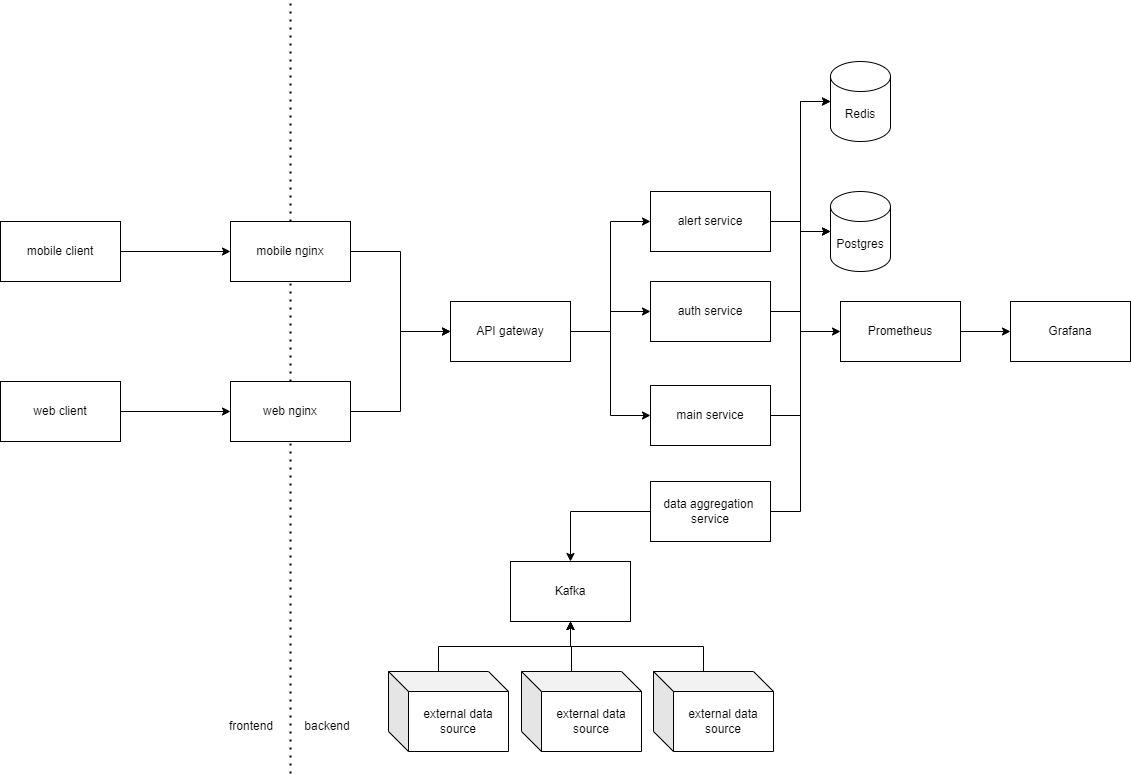
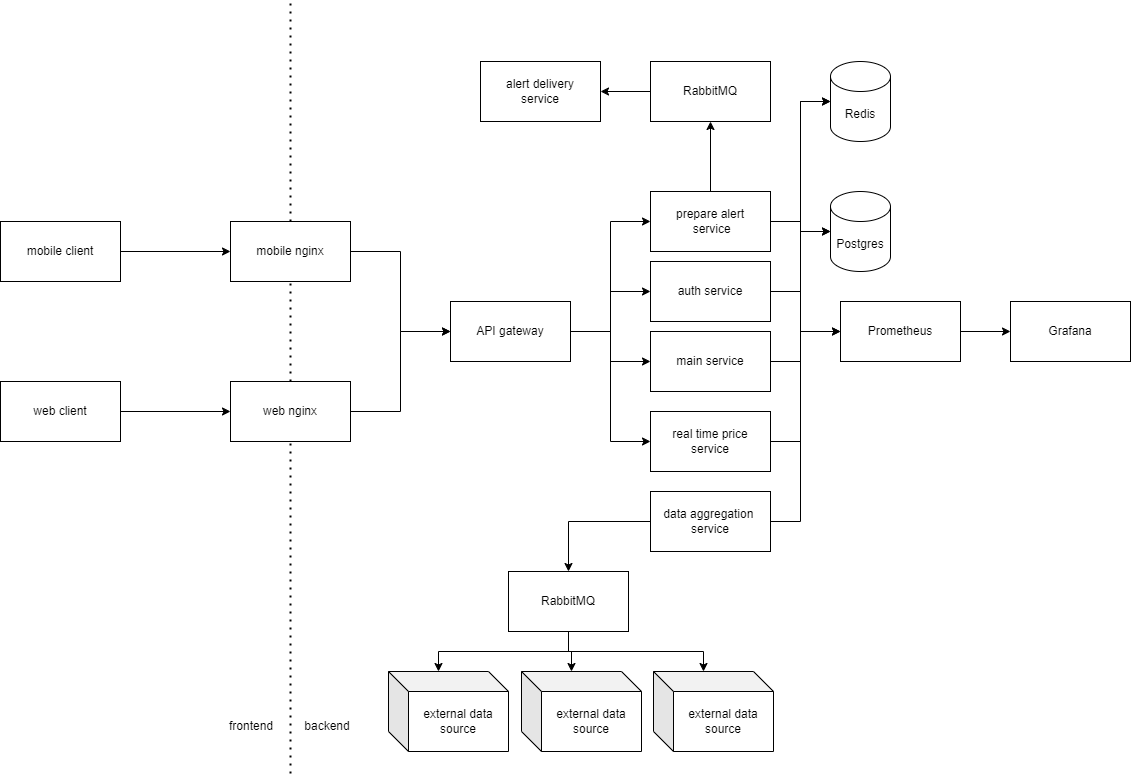
Схема проекта UPD

diff --git a/README.md b/README.md
@@ -715,6 +715,21 @@ __Защита от DDOS-атак__
 
 ![alt text](image-10.png)
 
+| Сервис | Функционал |
+| ------ | ---------- |
+| API gateway | Проксирует запросы в нужный микросервис в зависимости от URL запроса |
+| auth service | Взаимодействует с данными пользователя. Отвечает за работу с сессиями пользователей, а также за такие функции, как регистрация и авторизация |
+| prepare aleart service | Отвечает за подготовку списков пользователей, которым нужно отправить уведомления |
+| aleart delivery service | Отвечает непосредственно за отправку уведомлений пользователям |
+| real time price service | Отвечает за real-time отправку сообщений об изменении цены через websocket |
+| data aggregation service | Отвечает за агрегирование данных из внешних источников |
+| main service | Обеспечивает оставшуюся функциональность веб-приложения: отдаёт данные для рендеринга веб-страниц  |
+
+### Ключевые моменты
+- внешние источники данных отдают временную метку, для которой актуальны отданные данные
+- синхронизация по времени должна присутствовать только в рамках одной криптовалюты; синхронизация между несколькими криптовалютами не требуется
+- так как на основе данных, циркулирующих внутри веб-сервиса, не проводится никаких транзакций по купле-продажи активов, то данные могут отличаться от актуальных, и информация может обновляться с задержкой
+
 ## Источники
 1. [According to CMC 2024](https://coinmarketcap.com/academy/article/according-to-cmc-2024-h1)
 2. [coinmarketcap.com Trafic Analytics, Ranking & Audience August 2024](https://www.similarweb.com/website/coinmarketcap.com)
